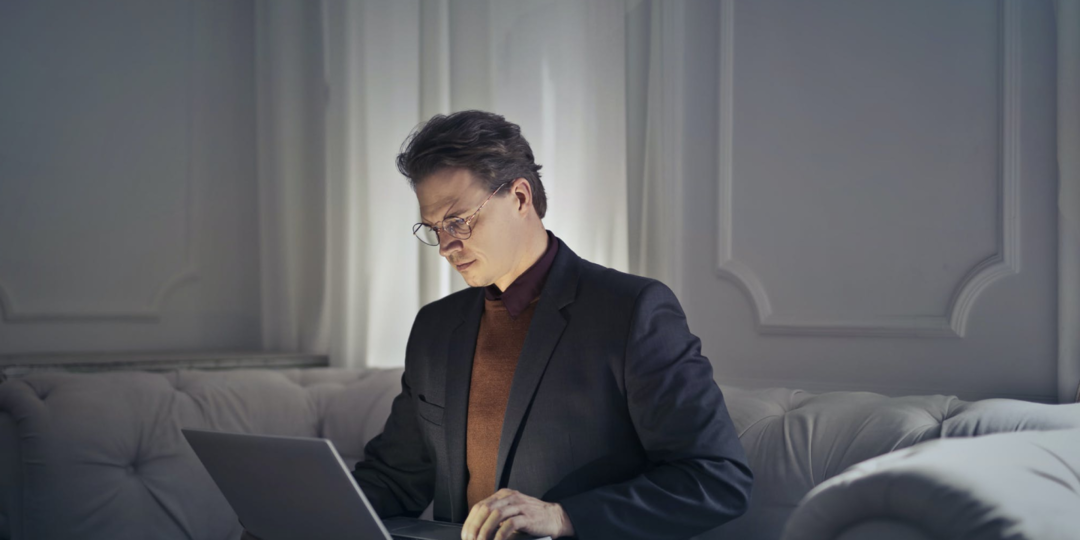
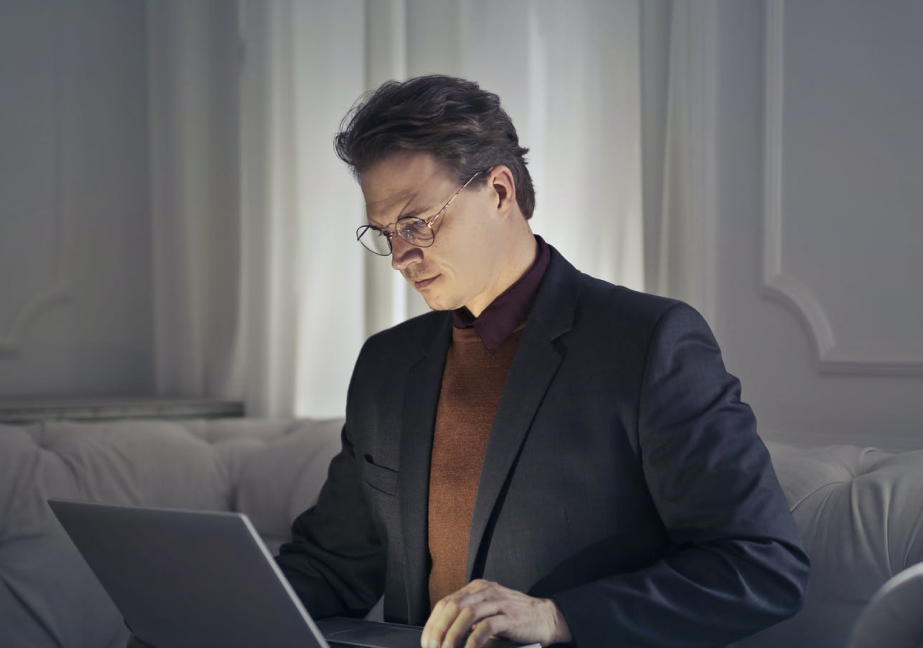
heropage skellet

diff --git a/index.html b/index.html
@@ -20,69 +20,114 @@
   </head>
   <body>
     <header class="header" id="header">
-      
-        <div class="header__logo">
-          <a class="header__link" href="#"
-            ><picture class="header__picture">
-              <source
-                srcset="img/main-logo-s.png"
-                type="image/png"
-                media="(max-width: 680px)"
-              />
-              <img
-                class="header__image"
-                src="img/main-logo.png"
-                alt="Main logo"
-              /> </picture
-          ></a>
-        </div>
-        <div class="header__nav">
-          <nav class="header__menu">
-            <ul class="menu">
-              <li class="menu__item">
-                <a class="menu__link" href="#">Home</a>
-              </li>
-              <li class="menu__item">
-                <a class="menu__link" href="#">Blog</a>
-              </li>
-              <li class="menu__item">
-                <a class="menu__link" href="#">About us</a>
-              </li>
-              <li class="menu__item">
-                <a class="menu__link" href="#">Contact us</a>
-              </li>
-            </ul>
-          </nav>
+      <div class="header__logo">
+        <a class="header__link" href="#"
+          ><picture class="header__picture">
+            <source
+              srcset="img/main-logo-s.png"
+              type="image/png"
+              media="(max-width: 680px)"
+            />
+            <img
+              class="header__image"
+              src="img/main-logo.png"
+              alt="Main logo"
+            /> </picture
+        ></a>
+      </div>
+      <div class="header__nav">
+        <nav class="header__menu">
+          <ul class="menu">
+            <li class="menu__item">
+              <a class="menu__link" href="#">Home</a>
+            </li>
+            <li class="menu__item">
+              <a class="menu__link" href="#">Blog</a>
+            </li>
+            <li class="menu__item">
+              <a class="menu__link" href="#">About us</a>
+            </li>
+            <li class="menu__item">
+              <a class="menu__link" href="#">Contact us</a>
+            </li>
+          </ul>
+        </nav>
 
-          <a href="#" class="header__btn header__btn--fullscreen">
-            Subscribe
-          </a>
-        </div>
-        <div class="header__hamburger-icon" onclick="toggleMobileMenu(this)">
-          <div class="bar1"></div>
-          <div class="bar2"></div>
-          <div class="bar3"></div>
-          <div class="header__menu--mobile">
-            <ul class="menu--mobile">
-              <li class="menu__item">
-                <a href="#home" class="menu__link">Home</a>
-              </li>
-              <li class="menu__item">
-                <a href="#banner" class="menu__link">Blog</a>
-              </li>
-              <li class="menu__item">
-                <a href="#about_us" class="menu__link">About us</a>
-              </li>
-              <li class="menu__item">
-                <a href="#blog" class="menu__link">Contact us</a>
-              </li>
-            </ul>
+        <a href="#" class="header__btn header__btn--fullscreen"> Subscribe </a>
+      </div>
+      <div class="header__hamburger-icon" onclick="toggleMobileMenu(this)">
+        <div class="bar1"></div>
+        <div class="bar2"></div>
+        <div class="bar3"></div>
+        <div class="header__menu--mobile">
+          <ul class="menu--mobile">
+            <li class="menu__item">
+              <a href="#home" class="menu__link">Home</a>
+            </li>
+            <li class="menu__item">
+              <a href="#banner" class="menu__link">Blog</a>
+            </li>
+            <li class="menu__item">
+              <a href="#about_us" class="menu__link">About us</a>
+            </li>
+            <li class="menu__item">
+              <a href="#blog" class="menu__link">Contact us</a>
+            </li>
+          </ul>
 
-            <a href="#" class="header__btn">Subscribe</a>
-          </div>
+          <a href="#" class="header__btn">Subscribe</a>
         </div>
-      
+      </div>
     </header>
+    <main id="main">
+      <section class="heropage">
+        <div class="heropage_bg">
+          <picture class="heropage__picture">
+            <source
+              srcset="img/heropage-img-xs.png"
+              type="image/png"
+              media="(max-width:576px)"
+            />
+            <source
+              srcset="img/heropage-img-s.png"
+              type="image/png"
+              media="(max-width: 680px)"
+            />
+            <source
+              srcset="img/heropage-img-m.png"
+              type="image/png"
+              media="(max-width:992px)"
+            />
+            <img
+              class="heropage__image"
+              src="img/heropage-img.png"
+              alt="Man with laptop"
+            />
+          </picture>
+          <div class="heropage__grad"></div>
+        </div>
+        <div class="heropage__info">
+          <p class="heropage__posted">
+            Posted on <span class="heropage__span">startup</span>
+          </p>
+          <h1 class="heropage__header">
+            Step-by-step guide to choosing great font pairs
+          </h1>
+          <div class="heropage__author--time">
+            <p class="heropage__author">
+              By <span class="author__span">James West</span>
+            </p>
+            <p class="heropage__time">May 23, 2022</p>
+          </div>
+          <p class="heropage__about">
+            Duis aute irure dolor in reprehenderit in voluptate velit esse
+            cillum dolore eu fugiat nulla pariatur. Excepteur sint occaecat
+            cupidatat non proident.
+          </p>
+          <a class="heropage__btn">read more</a>
+        </div>
+      </section>
+    </main>
 
     <script>
       function toggleMobileMenu(menu) {

diff --git a/css/style.css b/css/style.css
@@ -69,6 +69,7 @@ ul li {
   padding-bottom: 16px;
   padding-left: 40px;
   padding-right: 40px;
+  text-transform: capitalize;
   font-weight: 700;
   transition: all 150ms ease-in-out;
 }
@@ -170,4 +171,13 @@ ul li {
 .open .bar3 {
   -webkit-transform: rotate(45deg) translate(-6px, -8px);
   transform: rotate(45deg) translate(-6px, -8px);
+}
+
+.heropage__picture {
+  width: 100%;
+  height: 100%;
+}
+.heropage__image {
+  width: 100%;
+  height: 100%;
 }/*# sourceMappingURL=style.css.map */

diff --git a/scss/utils/_mixins.scss b/scss/utils/_mixins.scss
@@ -8,6 +8,7 @@
   padding-bottom: $padding-y;
   padding-left: $padding-x;
   padding-right: $padding-x;
+  text-transform:capitalize;
 }
 
 @mixin btn-hover($bg-color, $color, $f-weight) {

diff --git a/scss/components/_heropage.scss b/scss/components/_heropage.scss
@@ -1,0 +1,14 @@
+.heropage {
+ 
+
+    &__picture {
+        width: 100%;
+        height: 100%;
+    }
+
+    &__image {
+        width: 100%;
+        height: 100%;
+    }
+}
+

diff --git a/scss/style.scss b/scss/style.scss
@@ -5,3 +5,4 @@
 @import "components/header";
 @import "components/menu";
 @import "components/menu-mob";
+@import "components/heropage";

diff --git a/scss/utils/_variables.scss b/scss/utils/_variables.scss
@@ -96,3 +96,4 @@ $xs: 376px;
 
 /*arrow etc*/
 $right-arrow: "›"; /*>*/
+$vert-line: "|";
